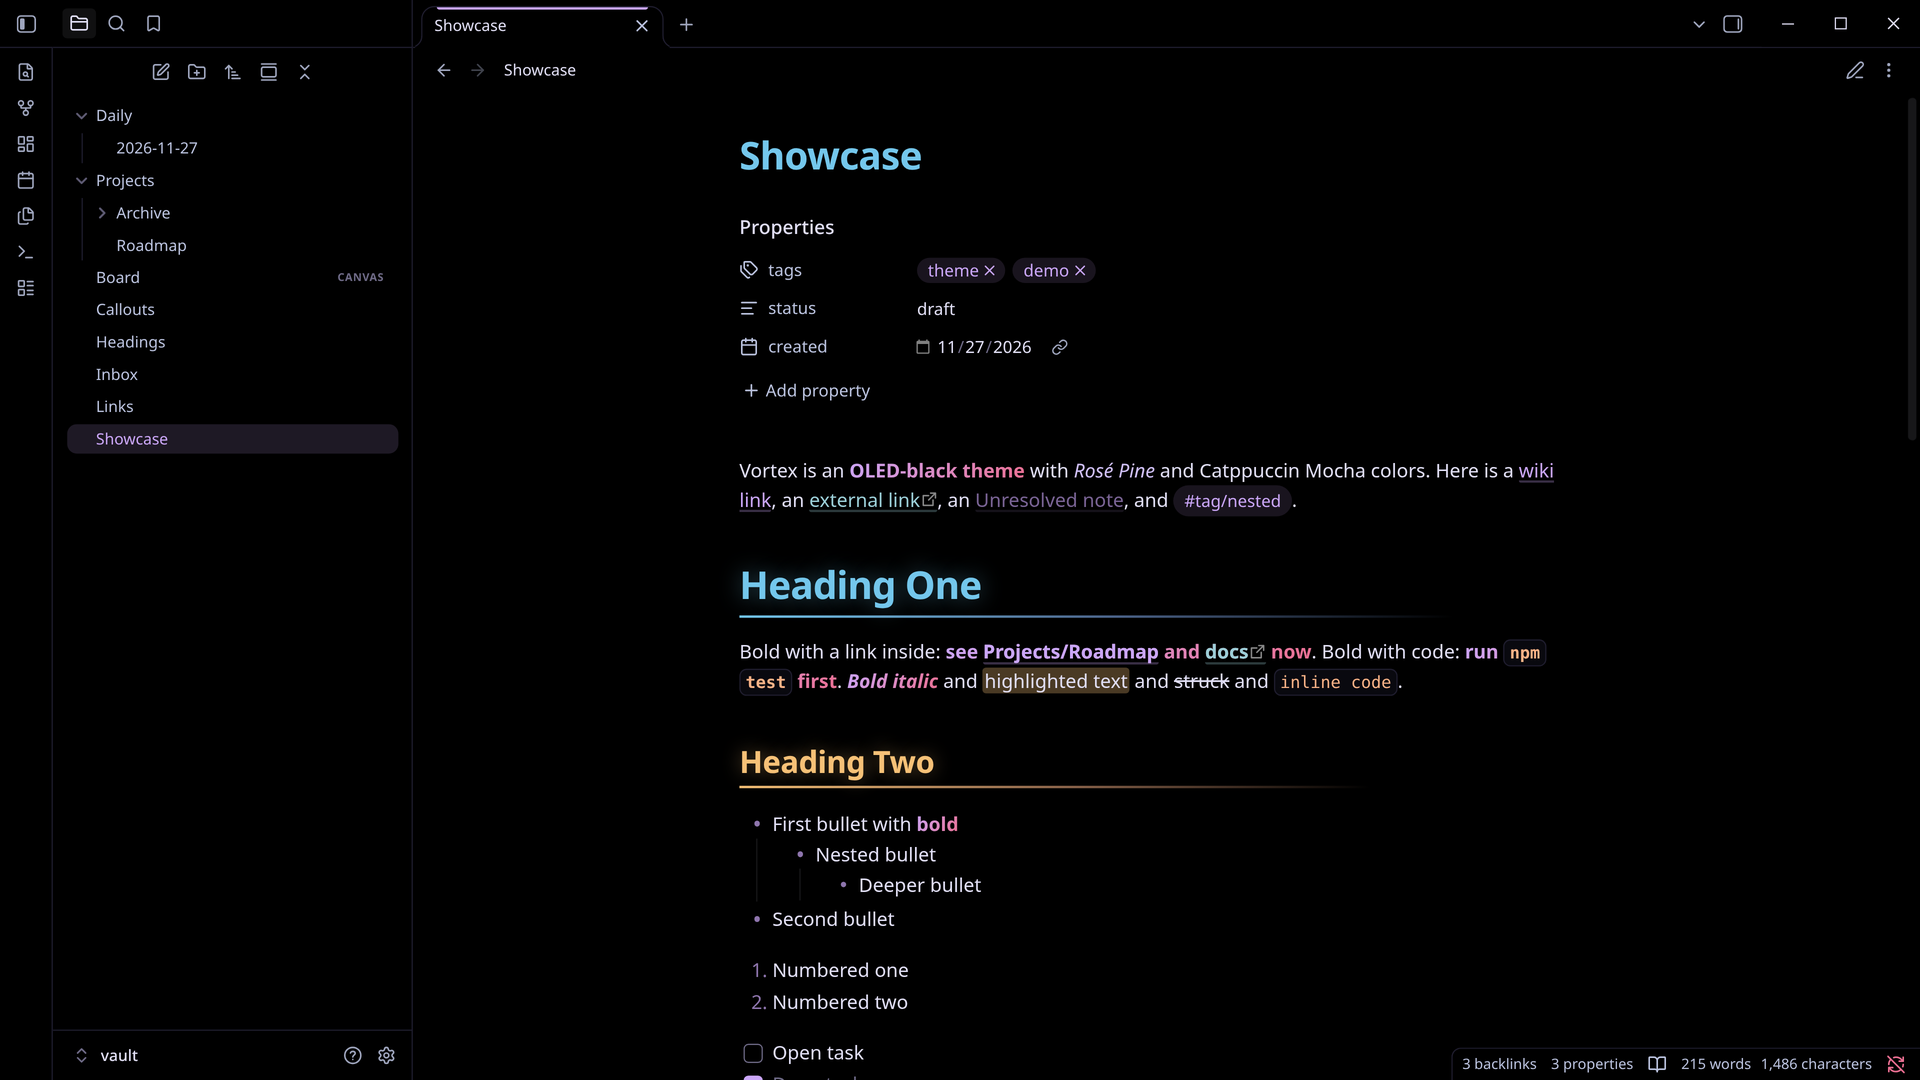
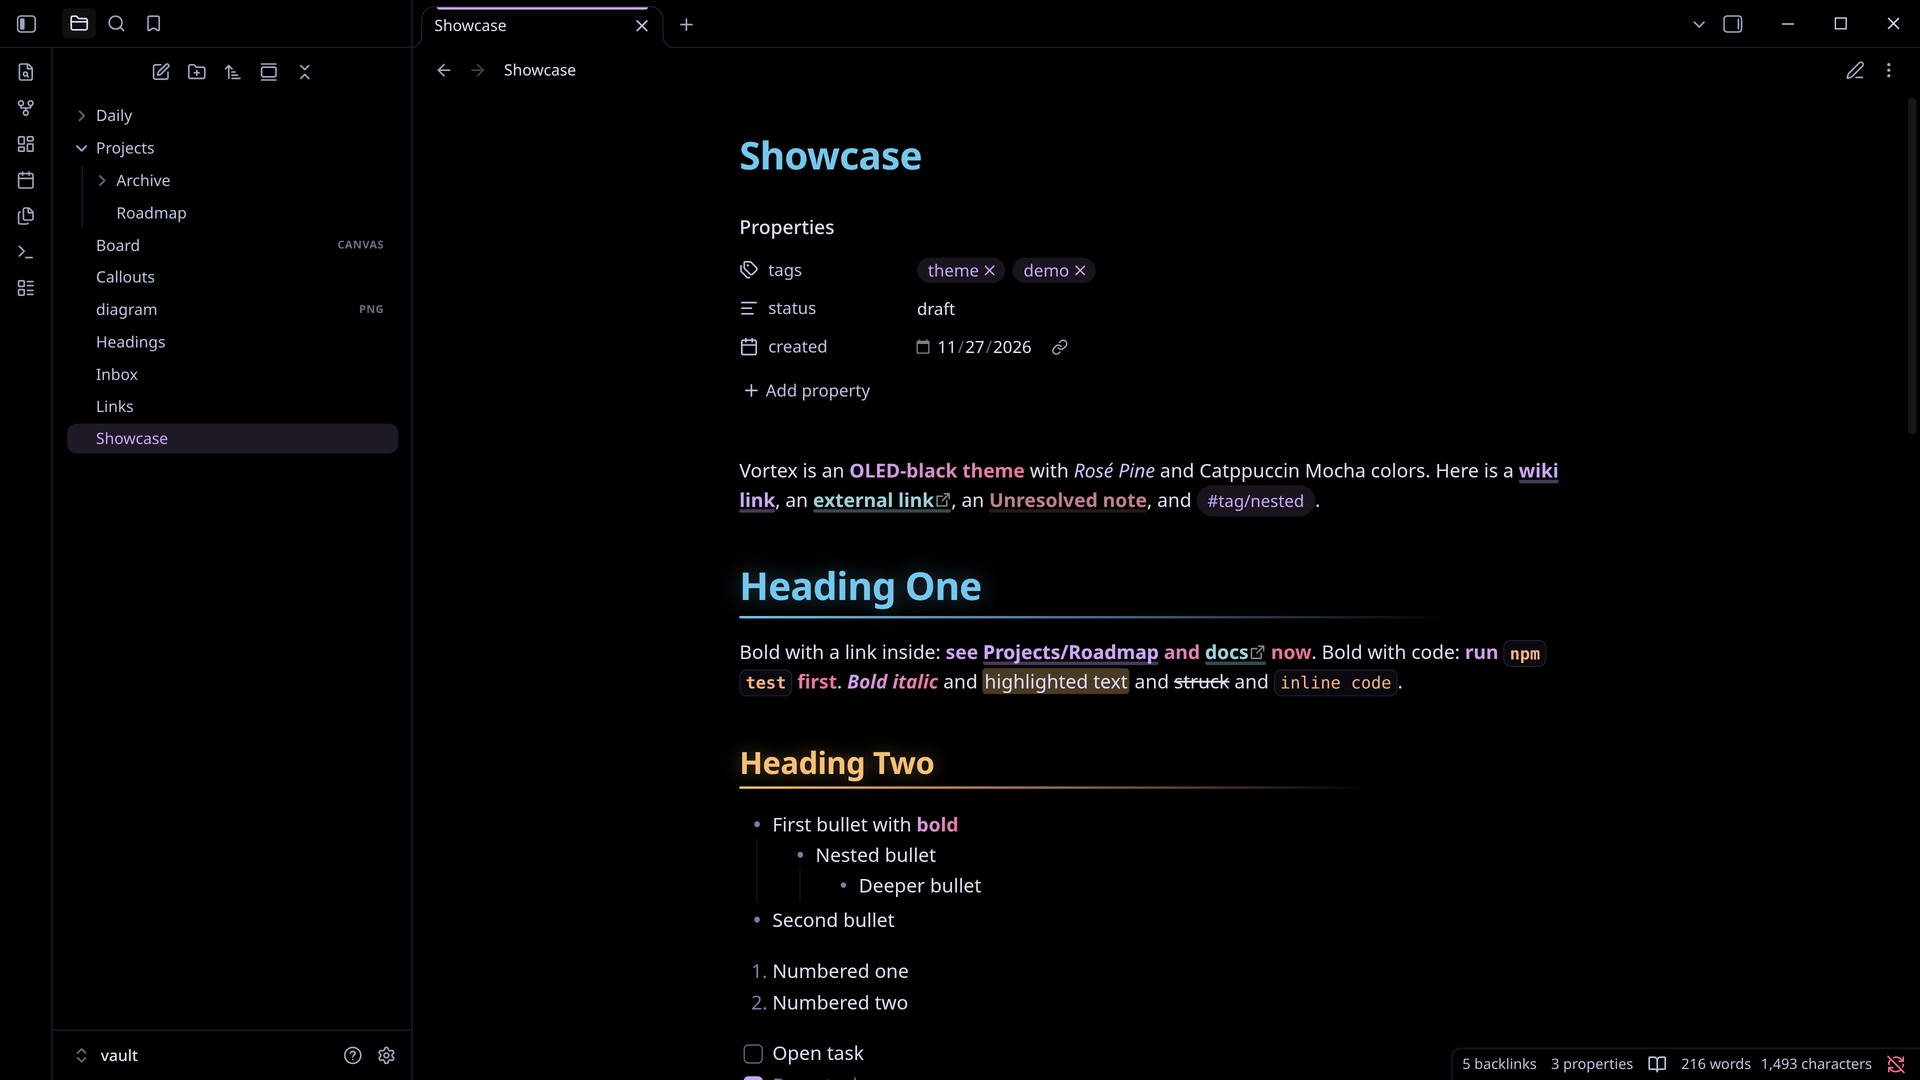
docs: document link colours and Style Settings, add first release date
- Links section: table of the colour each kind of link gets, and where
  those colours apply
- New Style Settings section listing what can be tweaked
- First release date (30 November 2024) at the end of the README
- Screenshots regenerated from Obsidian 1.15.1 to show the bolder,
  per-type links and the accent folder arrow

diff --git a/README.md b/README.md
@@ -12,7 +12,8 @@
 - Every color comes from **Catppuccin Mocha** and **Rosé Pine**, with Catppuccin Mauve as the default accent.
 - Infinite accent color customization.
 - Neon glow and gradient underlines for headings.
-- Gradient bold text and smooth animations for links.
+- Gradient bold text, and semibold links with a palette color for every kind of link.
+- [Style Settings](https://github.com/community-archive/obsidian-style-settings) support for recoloring headings, bold, code and links.
 - Unique custom callouts with icons.
 
 > [!NOTE]
@@ -64,13 +65,23 @@ Each heading has a custom gradient underline for extra style.
 -->
 ## Link Styling and Animation
 
-Internal and external links are styled with distinct colors for easy differentiation. 
+Links are semibold, and every kind of link gets its own color from the palette:
 
-- **Internal Links**: Use the accent color (Catppuccin Mauve by default) and point to content within the vault.
-- **External Links**: Use Rosé Pine Foam and keep Obsidian's external-link icon.
+| Link | Color |
+| --- | --- |
+| Notes (`[[Note]]`) | Accent color (Catppuccin Mauve by default) |
+| Headings (`[[Note#Heading]]`) | Catppuccin Blue |
+| Blocks (`[[Note#^block]]`) | Catppuccin Green |
+| Attachments (PDFs, images, audio, video) | Catppuccin Peach |
+| Notes that don't exist yet | Catppuccin Maroon |
+| Web links | Rosé Pine Foam, with Obsidian's external-link icon |
+| Email (`mailto:`) | Catppuccin Pink |
+| `obsidian://` links | Catppuccin Yellow |
+
+Heading, block, attachment, email and `obsidian://` colors show in reading view, hover previews and canvas. The editor can't tell those links apart, so while editing, links are colored as notes, missing notes or web links.
 
 ### Hover Effect
-- A bottom border appears, rising to fill the background on hover, creating a smooth animation.
+- A colored bar sits under every link and rises to fill the word on hover, creating a smooth animation.
 
 This effect adds interactivity and enhances the visual appeal of your notes.
 
@@ -120,6 +131,18 @@ Below is a list of **custom callouts** with their respective icons. You can use 
 
 
 ![Vortex Callouts Image](assets/callouts.png)
+
+## ⚙ Style Settings
+
+Vortex works with the [Style Settings](https://github.com/community-archive/obsidian-style-settings) plugin. Install it from **Settings → Community plugins**, then open **Settings → Style Settings → Vortex** to:
+
+- Recolor each heading level, or turn off the heading glow and underlines.
+- Switch bold text between the gradient and a solid color, and pick the gradient's colors.
+- Change the inline code color.
+- Recolor each kind of link, change the link underline thickness, or turn the underline off.
+- Change or hide the horizontal rule symbol, and hide the accent line on the active tab.
+
+The accent color itself stays in **Settings → Appearance → Accent color**.
 
 # 🌟 Transform Your Notes with Vortex  
 Vortex is a **lightweight theme** designed to make your notes visually stunning and highly customizable.  
@@ -175,3 +198,5 @@ This theme is licensed under the [MIT License](LICENSE). Feel free to use, modif
 <p align="center">
    Made with ❤ by <a href="https://github.com/abhimangs">Abhiman Sundararajan</a> · <a href="https://abhiman.io">abhiman.io</a>
 </p>
+
+<p align="center"><sub>First released on 30 November 2024</sub></p>
